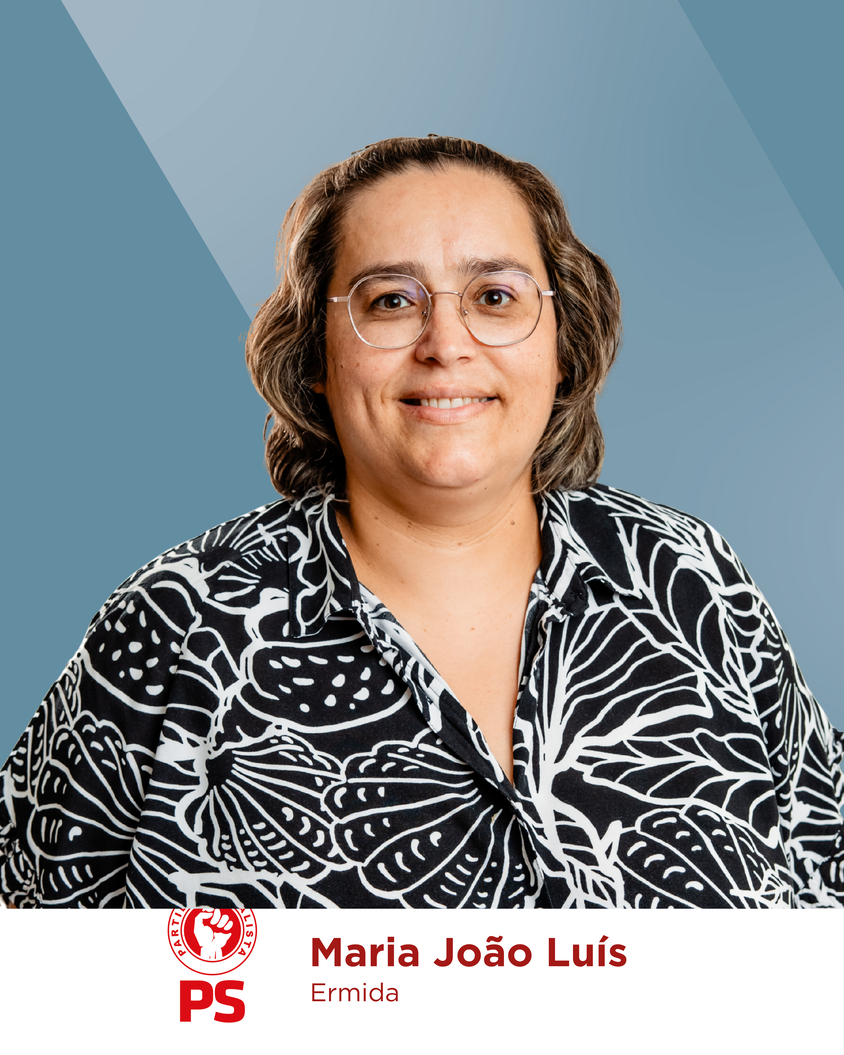
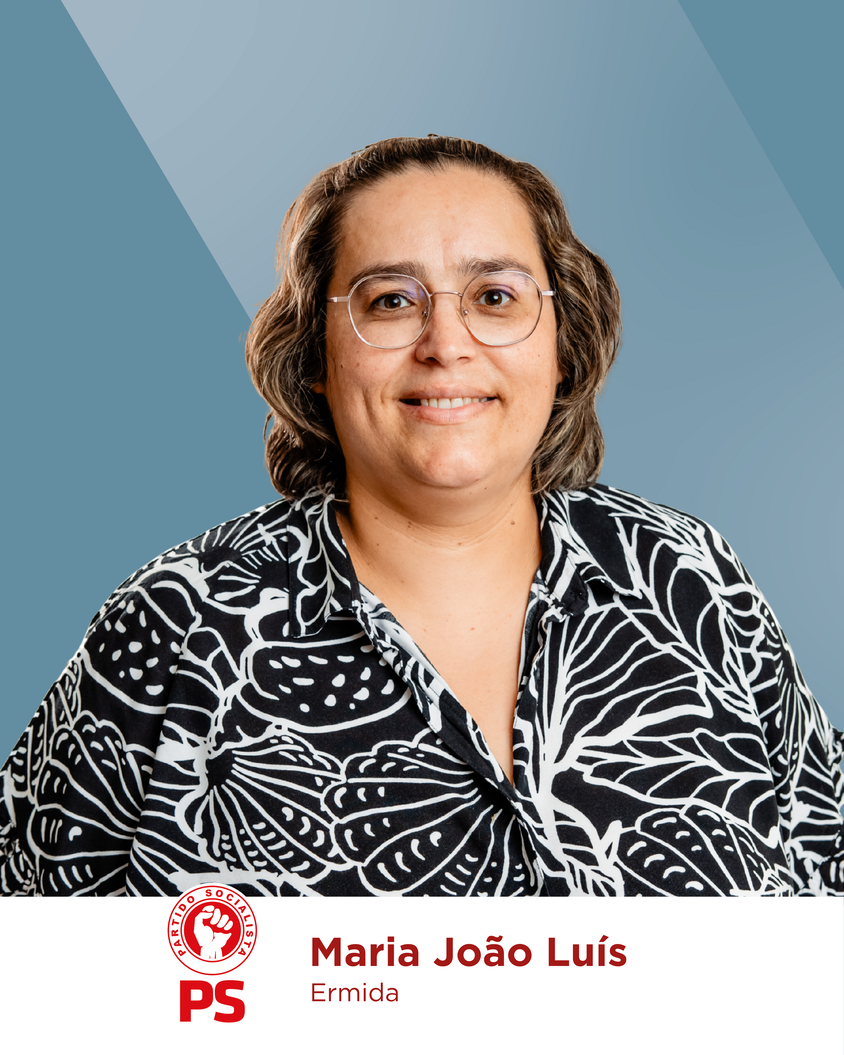
commit

Changed region(s): [[0.0, 0.819, 1.0, 0.91]]

diff --git a/noticias.html b/noticias.html
@@ -198,9 +198,7 @@
             <div class="noticia-container">
               <article
                 class="noticia-card rounded-2xl h-80 cursor-pointer transition-transform hover:scale-105"
-                style="
-                  background-image: url('./photos.news/549757930_18054623588622069_8813367472518759795_n.jpg');
-                "
+                style="background-image: url('./photos.news/conta.la.png')"
                 onclick="window.open('https://www.youtube.com/watch?v=W1N2xQTeMiY ', '_blank')"
               >
                 <div class="noticia-content">
@@ -208,6 +206,22 @@
                 </div>
               </article>
               <p class="noticia-fonte">Conta lá</p>
+            </div>
+
+            <!-- NotÃcia 4 -->
+            <div class="noticia-container">
+              <article
+                class="noticia-card rounded-2xl h-80 cursor-pointer transition-transform hover:scale-105"
+                style="
+                  background-image: url('./photos.news//549757930_18054623588622069_8813367472518759795_n.jpg');
+                "
+                onclick="window.open('https://share.google/FRNBQhsE1s5xVWlI3', '_blank')"
+              >
+                <div class="noticia-content">
+                  <h3>Entrevista com Carlos Miranda</h3>
+                </div>
+              </article>
+              <p class="noticia-fonte">Beira Baixa TV</p>
             </div>
           </div>
         </div>

diff --git a/camara-municipal.html b/camara-municipal.html
@@ -69,7 +69,7 @@
                   class="bg-white rounded-xl shadow-xl overflow-hidden hover:shadow-2xl hover:scale-105 transition-all duration-300"
                 >
                   <img
-                    src="./photos.municipal/Nº 1 - CMSertã.png"
+                    src="./photos.municipal/Nº 1 - CMSertã (2).png"
                     alt="Carlos Miranda"
                     class="w-full h-auto object-cover"
                   />
@@ -82,7 +82,7 @@
                   class="bg-white rounded-xl shadow-xl overflow-hidden hover:shadow-2xl hover:scale-105 transition-all duration-300"
                 >
                   <img
-                    src="./photos.municipal/Nº 2 - CMSertã.png"
+                    src="./photos.municipal/Nº 1 - CMSertã (2).png"
                     alt="Rui Antunes"
                     class="w-full h-auto object-cover"
                   />

diff --git a/freguesias/freguesia-serta.html b/freguesias/freguesia-serta.html
@@ -57,7 +57,7 @@
                   </svg>
                 </a>
                 <a
-                  href="https://www.instagram.com/raquelalves_psserta/"
+                  href="https://www.instagram.com/raquelalves_psserta/    "
                   class="w-12 h-12 bg-slate-700 rounded-full flex items-center justify-center text-white hover:bg-slate-800 transition-colors"
                 >
                   <svg class="w-6 h-6" fill="currentColor" viewBox="0 0 24 24">
